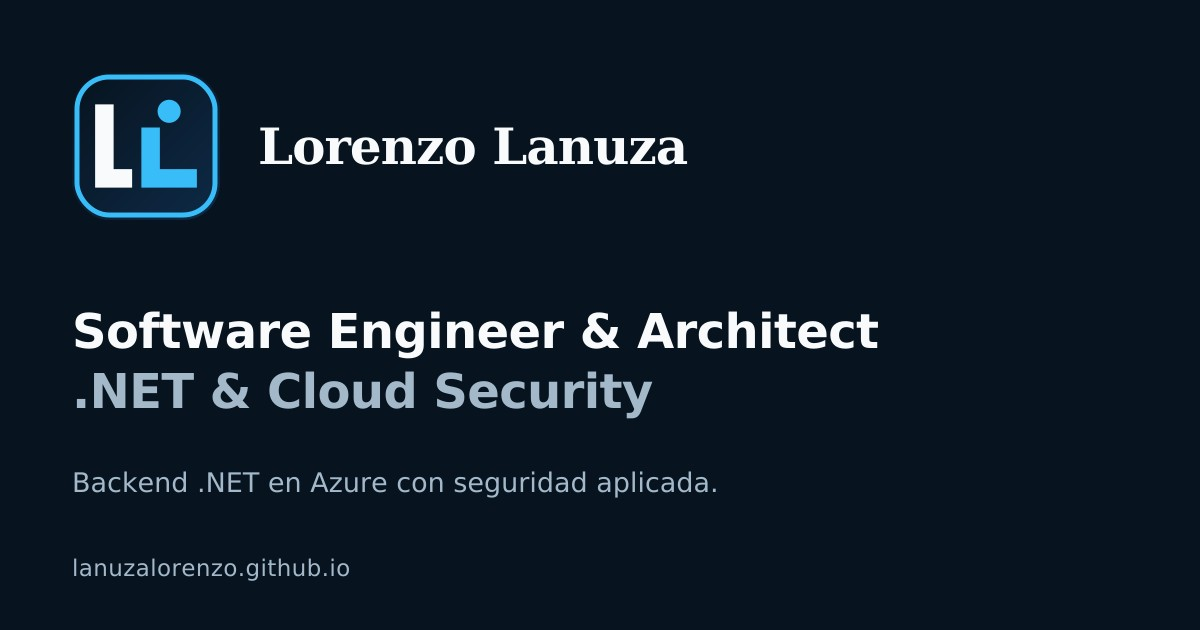
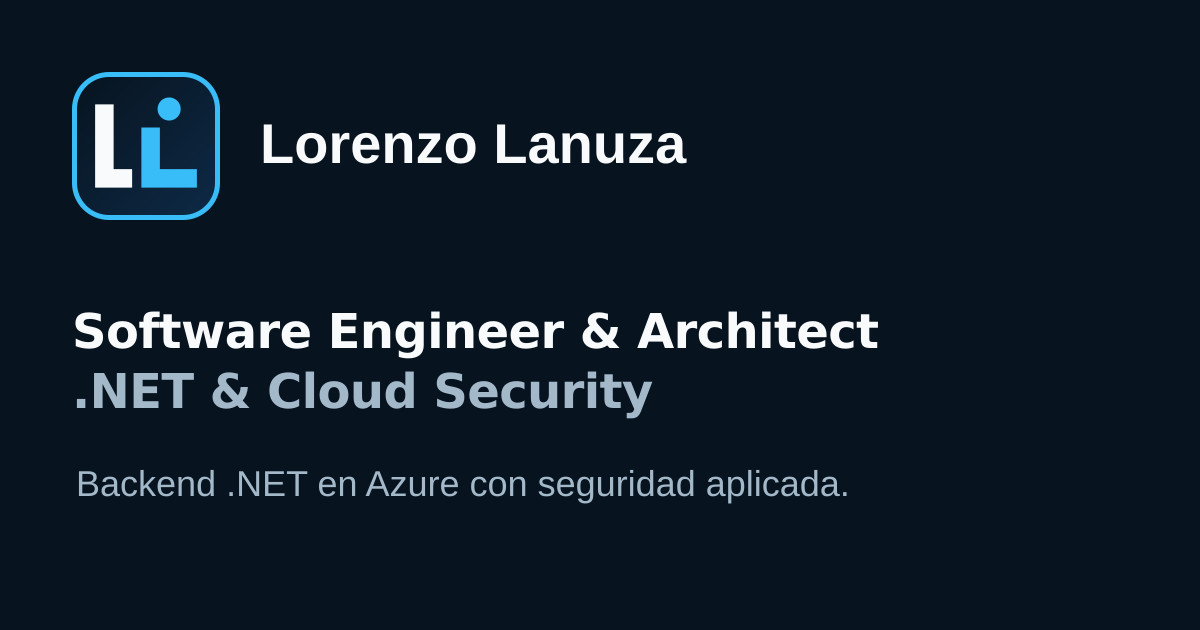
fix(site): align brand mark and social assets (#24)
Move the LL point to cy=16 so it stays separate at 16 px; add a 16 px favicon variant with a 1 px border and an opaque apple-touch-icon; fix the OG tile border, switch the name to sans, enlarge the subtitle and drop the redundant URL; refresh favicon/OG cache tokens, JSON-LD, sitemap and asset docs.

diff --git a/index.html b/index.html
@@ -13,10 +13,10 @@
     <meta property="og:url" content="https://lanuzalorenzo.github.io/">
     <meta property="og:title" content="Lorenzo Lanuza — Software Engineer &amp; Architect · .NET &amp; Azure">
     <meta property="og:description" content="Ingeniero de software senior en .NET y Azure. Aplico la seguridad dentro del desarrollo: identidad, AppSec y pipeline con gates.">
-    <meta property="og:image" content="https://lanuzalorenzo.github.io/assets/og-image.jpg">
+    <meta property="og:image" content="https://lanuzalorenzo.github.io/assets/og-image.jpg?v=20261105a">
     <meta property="og:image:width" content="1200">
     <meta property="og:image:height" content="630">
-    <meta property="og:image:alt" content="Lorenzo Lanuza — Software Engineer &amp; Architect, .NET y Azure">
+    <meta property="og:image:alt" content="Lorenzo Lanuza — Software Engineer &amp; Architect, .NET y Cloud Security">
     <meta property="og:updated_time" content="2026-11-05T00:00:00+01:00">
     <meta name="author" content="Lorenzo Lanuza Arellano">
     <script type="application/ld+json">
@@ -25,7 +25,7 @@
       "@type": "Person",
       "name": "Lorenzo Lanuza Arellano",
       "url": "https://lanuzalorenzo.github.io/",
-      "image": "https://lanuzalorenzo.github.io/assets/og-image.jpg",
+      "image": "https://lanuzalorenzo.github.io/assets/og-image.jpg?v=20261105a",
       "jobTitle": "Software Engineer & Architect · .NET & Azure",
       "alumniOf": {
         "@type": "EducationalOrganization",
@@ -52,13 +52,14 @@
     <meta name="twitter:url" content="https://lanuzalorenzo.github.io/">
     <meta name="twitter:title" content="Lorenzo Lanuza — Software Engineer &amp; Architect · .NET &amp; Azure">
     <meta name="twitter:description" content="Ingeniero de software senior en .NET y Azure. Aplico la seguridad dentro del desarrollo: identidad, AppSec y pipeline con gates.">
-    <meta name="twitter:image" content="https://lanuzalorenzo.github.io/assets/og-image.jpg">
-    <meta name="twitter:image:alt" content="Lorenzo Lanuza — Software Engineer &amp; Architect, .NET y Azure">
+    <meta name="twitter:image" content="https://lanuzalorenzo.github.io/assets/og-image.jpg?v=20261105a">
+    <meta name="twitter:image:alt" content="Lorenzo Lanuza — Software Engineer &amp; Architect, .NET y Cloud Security">
 
     <title>Lorenzo Lanuza — Software Engineer &amp; Architect · .NET &amp; Azure</title>
-    <link rel="icon" href="favicon.svg?v=20261030c" type="image/svg+xml">
-    <link rel="icon" href="favicon.png?v=20261030c" sizes="180x180" type="image/png">
-    <link rel="apple-touch-icon" href="favicon.png?v=20261030c" sizes="180x180">
+    <link rel="icon" type="image/png" sizes="16x16" href="assets/marca/favicon-16.png?v=20261105a">
+    <link rel="icon" href="favicon.svg?v=20261105a" type="image/svg+xml">
+    <link rel="icon" href="favicon.png?v=20261105a" sizes="180x180" type="image/png">
+    <link rel="apple-touch-icon" href="assets/marca/apple-touch-icon.png?v=20261105a" sizes="180x180">
     <link rel="sitemap" type="application/xml" title="Sitemap" href="/sitemap.xml">
     <link rel="stylesheet" href="styles.css?v=20261105a">
     <script src="app.js?v=20261103e" defer></script>

diff --git a/ia.html b/ia.html
@@ -13,10 +13,10 @@
     <meta property="og:url" content="https://lanuzalorenzo.github.io/ia.html">
     <meta property="og:title" content="IA aplicada — Lorenzo Lanuza">
     <meta property="og:description" content="Guías, experimentos y un montaje validado de IA aplicada: montar el entorno, trabajar con agentes, decidir qué sale de la red y medir lo que se afirma.">
-    <meta property="og:image" content="https://lanuzalorenzo.github.io/assets/og-image.jpg">
+    <meta property="og:image" content="https://lanuzalorenzo.github.io/assets/og-image.jpg?v=20261105a">
     <meta property="og:image:width" content="1200">
     <meta property="og:image:height" content="630">
-    <meta property="og:image:alt" content="Lorenzo Lanuza — Software Engineer &amp; Architect, .NET y Azure">
+    <meta property="og:image:alt" content="Lorenzo Lanuza — Software Engineer &amp; Architect, .NET y Cloud Security">
     <meta property="og:updated_time" content="2026-11-05T00:00:00+01:00">
     <meta name="author" content="Lorenzo Lanuza Arellano">
 
@@ -25,13 +25,14 @@
     <meta name="twitter:url" content="https://lanuzalorenzo.github.io/ia.html">
     <meta name="twitter:title" content="IA aplicada — Lorenzo Lanuza">
     <meta name="twitter:description" content="Guías, experimentos y un montaje validado de IA aplicada: montar el entorno, trabajar con agentes, decidir qué sale de la red y medir lo que se afirma.">
-    <meta name="twitter:image" content="https://lanuzalorenzo.github.io/assets/og-image.jpg">
-    <meta name="twitter:image:alt" content="Lorenzo Lanuza — Software Engineer &amp; Architect, .NET y Azure">
+    <meta name="twitter:image" content="https://lanuzalorenzo.github.io/assets/og-image.jpg?v=20261105a">
+    <meta name="twitter:image:alt" content="Lorenzo Lanuza — Software Engineer &amp; Architect, .NET y Cloud Security">
 
     <title>IA aplicada — Lorenzo Lanuza</title>
-    <link rel="icon" href="favicon.svg?v=20261030c" type="image/svg+xml">
-    <link rel="icon" href="favicon.png?v=20261030c" sizes="180x180" type="image/png">
-    <link rel="apple-touch-icon" href="favicon.png?v=20261030c" sizes="180x180">
+    <link rel="icon" type="image/png" sizes="16x16" href="assets/marca/favicon-16.png?v=20261105a">
+    <link rel="icon" href="favicon.svg?v=20261105a" type="image/svg+xml">
+    <link rel="icon" href="favicon.png?v=20261105a" sizes="180x180" type="image/png">
+    <link rel="apple-touch-icon" href="assets/marca/apple-touch-icon.png?v=20261105a" sizes="180x180">
     <link rel="sitemap" type="application/xml" title="Sitemap" href="/sitemap.xml">
     <link rel="stylesheet" href="styles.css?v=20261105a">
     <script src="app.js?v=20261103e" defer></script>

diff --git a/portfolio.html b/portfolio.html
@@ -13,10 +13,10 @@
     <meta property="og:url" content="https://lanuzalorenzo.github.io/portfolio.html">
     <meta property="og:title" content="Portfolio de ciberseguridad — Lorenzo Lanuza">
     <meta property="og:description" content="Doce módulos de seguridad agrupados por capa del modelo Defense-in-Depth, con el estado real y la evidencia de cada uno.">
-    <meta property="og:image" content="https://lanuzalorenzo.github.io/assets/og-image.jpg">
+    <meta property="og:image" content="https://lanuzalorenzo.github.io/assets/og-image.jpg?v=20261105a">
     <meta property="og:image:width" content="1200">
     <meta property="og:image:height" content="630">
-    <meta property="og:image:alt" content="Lorenzo Lanuza — Software Engineer &amp; Architect, .NET y Azure">
+    <meta property="og:image:alt" content="Lorenzo Lanuza — Software Engineer &amp; Architect, .NET y Cloud Security">
     <meta property="og:updated_time" content="2026-11-05T00:00:00+01:00">
     <meta name="author" content="Lorenzo Lanuza Arellano">
 
@@ -25,13 +25,14 @@
     <meta name="twitter:url" content="https://lanuzalorenzo.github.io/portfolio.html">
     <meta name="twitter:title" content="Portfolio de ciberseguridad — Lorenzo Lanuza">
     <meta name="twitter:description" content="Doce módulos de seguridad agrupados por capa del modelo Defense-in-Depth, con el estado real y la evidencia de cada uno.">
-    <meta name="twitter:image" content="https://lanuzalorenzo.github.io/assets/og-image.jpg">
-    <meta name="twitter:image:alt" content="Lorenzo Lanuza — Software Engineer &amp; Architect, .NET y Azure">
+    <meta name="twitter:image" content="https://lanuzalorenzo.github.io/assets/og-image.jpg?v=20261105a">
+    <meta name="twitter:image:alt" content="Lorenzo Lanuza — Software Engineer &amp; Architect, .NET y Cloud Security">
 
     <title>Portfolio de ciberseguridad — Lorenzo Lanuza</title>
-    <link rel="icon" href="favicon.svg?v=20261030c" type="image/svg+xml">
-    <link rel="icon" href="favicon.png?v=20261030c" sizes="180x180" type="image/png">
-    <link rel="apple-touch-icon" href="favicon.png?v=20261030c" sizes="180x180">
+    <link rel="icon" type="image/png" sizes="16x16" href="assets/marca/favicon-16.png?v=20261105a">
+    <link rel="icon" href="favicon.svg?v=20261105a" type="image/svg+xml">
+    <link rel="icon" href="favicon.png?v=20261105a" sizes="180x180" type="image/png">
+    <link rel="apple-touch-icon" href="assets/marca/apple-touch-icon.png?v=20261105a" sizes="180x180">
     <link rel="sitemap" type="application/xml" title="Sitemap" href="/sitemap.xml">
     <link rel="stylesheet" href="styles.css?v=20261105a">
     <script src="app.js?v=20261103e" defer></script>

diff --git a/api.html b/api.html
@@ -13,10 +13,10 @@
     <meta property="og:url" content="https://lanuzalorenzo.github.io/api.html">
     <meta property="og:title" content="EcommerceApi — Lorenzo Lanuza">
     <meta property="og:description" content="El estado real de 28 controles y límites de la API .NET 10 que sirve de banco de pruebas al portfolio, con enlace a su evidencia.">
-    <meta property="og:image" content="https://lanuzalorenzo.github.io/assets/og-image.jpg">
+    <meta property="og:image" content="https://lanuzalorenzo.github.io/assets/og-image.jpg?v=20261105a">
     <meta property="og:image:width" content="1200">
     <meta property="og:image:height" content="630">
-    <meta property="og:image:alt" content="Lorenzo Lanuza — Software Engineer &amp; Architect, .NET y Azure">
+    <meta property="og:image:alt" content="Lorenzo Lanuza — Software Engineer &amp; Architect, .NET y Cloud Security">
     <meta property="og:updated_time" content="2026-11-05T00:00:00+01:00">
     <meta name="author" content="Lorenzo Lanuza Arellano">
 
@@ -25,13 +25,14 @@
     <meta name="twitter:url" content="https://lanuzalorenzo.github.io/api.html">
     <meta name="twitter:title" content="EcommerceApi — Lorenzo Lanuza">
     <meta name="twitter:description" content="El estado real de 28 controles y límites de la API .NET 10 que sirve de banco de pruebas al portfolio, con enlace a su evidencia.">
-    <meta name="twitter:image" content="https://lanuzalorenzo.github.io/assets/og-image.jpg">
-    <meta name="twitter:image:alt" content="Lorenzo Lanuza — Software Engineer &amp; Architect, .NET y Azure">
+    <meta name="twitter:image" content="https://lanuzalorenzo.github.io/assets/og-image.jpg?v=20261105a">
+    <meta name="twitter:image:alt" content="Lorenzo Lanuza — Software Engineer &amp; Architect, .NET y Cloud Security">
 
     <title>EcommerceApi — Lorenzo Lanuza</title>
-    <link rel="icon" href="favicon.svg?v=20261030c" type="image/svg+xml">
-    <link rel="icon" href="favicon.png?v=20261030c" sizes="180x180" type="image/png">
-    <link rel="apple-touch-icon" href="favicon.png?v=20261030c" sizes="180x180">
+    <link rel="icon" type="image/png" sizes="16x16" href="assets/marca/favicon-16.png?v=20261105a">
+    <link rel="icon" href="favicon.svg?v=20261105a" type="image/svg+xml">
+    <link rel="icon" href="favicon.png?v=20261105a" sizes="180x180" type="image/png">
+    <link rel="apple-touch-icon" href="assets/marca/apple-touch-icon.png?v=20261105a" sizes="180x180">
     <link rel="sitemap" type="application/xml" title="Sitemap" href="/sitemap.xml">
     <link rel="stylesheet" href="styles.css?v=20261105a">
     <script src="app.js?v=20261103e" defer></script>

diff --git a/src/partials/shell.html b/src/partials/shell.html
@@ -13,10 +13,10 @@
     <meta property="og:url" content="{{canonical}}">
     <meta property="og:title" content="{{og_title}}">
     <meta property="og:description" content="{{og_description}}">
-    <meta property="og:image" content="https://lanuzalorenzo.github.io/assets/og-image.jpg">
+    <meta property="og:image" content="https://lanuzalorenzo.github.io/assets/og-image.jpg?v=20261105a">
     <meta property="og:image:width" content="1200">
     <meta property="og:image:height" content="630">
-    <meta property="og:image:alt" content="Lorenzo Lanuza — Software Engineer &amp; Architect, .NET y Azure">
+    <meta property="og:image:alt" content="Lorenzo Lanuza — Software Engineer &amp; Architect, .NET y Cloud Security">
     <meta property="og:updated_time" content="2026-11-05T00:00:00+01:00">
     <meta name="author" content="Lorenzo Lanuza Arellano">
 {{head_extra}}
@@ -25,13 +25,14 @@
     <meta name="twitter:url" content="{{canonical}}">
     <meta name="twitter:title" content="{{og_title}}">
     <meta name="twitter:description" content="{{og_description}}">
-    <meta name="twitter:image" content="https://lanuzalorenzo.github.io/assets/og-image.jpg">
-    <meta name="twitter:image:alt" content="Lorenzo Lanuza — Software Engineer &amp; Architect, .NET y Azure">
+    <meta name="twitter:image" content="https://lanuzalorenzo.github.io/assets/og-image.jpg?v=20261105a">
+    <meta name="twitter:image:alt" content="Lorenzo Lanuza — Software Engineer &amp; Architect, .NET y Cloud Security">
 
     <title>{{title}}</title>
-    <link rel="icon" href="favicon.svg?v=20261030c" type="image/svg+xml">
-    <link rel="icon" href="favicon.png?v=20261030c" sizes="180x180" type="image/png">
-    <link rel="apple-touch-icon" href="favicon.png?v=20261030c" sizes="180x180">
+    <link rel="icon" type="image/png" sizes="16x16" href="assets/marca/favicon-16.png?v=20261105a">
+    <link rel="icon" href="favicon.svg?v=20261105a" type="image/svg+xml">
+    <link rel="icon" href="favicon.png?v=20261105a" sizes="180x180" type="image/png">
+    <link rel="apple-touch-icon" href="assets/marca/apple-touch-icon.png?v=20261105a" sizes="180x180">
     <link rel="sitemap" type="application/xml" title="Sitemap" href="/sitemap.xml">
     <link rel="stylesheet" href="styles.css?v=20261105a">
     <script src="app.js?v=20261103e" defer></script>

diff --git a/scripts/build.py b/scripts/build.py
@@ -24,7 +24,7 @@ JSON_LD = """    <script type="application/ld+json">
       "@type": "Person",
       "name": "Lorenzo Lanuza Arellano",
       "url": "https://lanuzalorenzo.github.io/",
-      "image": "https://lanuzalorenzo.github.io/assets/og-image.jpg",
+      "image": "https://lanuzalorenzo.github.io/assets/og-image.jpg?v=20261105a",
       "jobTitle": "Software Engineer & Architect · .NET & Azure",
       "alumniOf": {
         "@type": "EducationalOrganization",

diff --git a/assets/marca/README.md b/assets/marca/README.md
@@ -4,10 +4,10 @@ Monograma del sitio: dos eles escalonadas, la primera blanca y la segunda cian, 
 
 ## Geometría
 
-- Lienzo `viewBox="0 0 64 64"`, marca entre `(10,14)` y `(54,50)`.
+- Lienzo `viewBox="0 0 64 64"`; las dos L van entre `(10,14)` y `(54,50)` y el punto llega hasta `y=11`.
 - Primera L: `M10 14H18V42H26V50H10Z` en `#f8fafc`.
 - Segunda L: `M30 24H38V42H54V50H30Z` en `#38bdf8`.
-- Punto: círculo de radio 5 en `(42,17)`, `#38bdf8`, separado de la segunda L por 2 px de hueco.
+- Punto: círculo de radio 5 en `(42,16)`, `#38bdf8`, separado de la segunda L por 3 px de hueco vertical (0,75 px a 16, que se rasteriza como 1 px).
 
 ## Ficheros
 
@@ -16,14 +16,16 @@ Monograma del sitio: dos eles escalonadas, la primera blanca y la segunda cian, 
 | `marca-tile.svg` | Baldosa 64×64 con fondo degradado y borde cian sólido de 2 px (`#38bdf8`, sin degradado ni opacidad). Es la versión del favicon y del icono de cabecera y pie | 16, 32, 64, 180 y 512 |
 | `marca.svg` | Marca sola sobre fondo transparente, para superficies navy ya existentes | 16, 32, 64, 180 y 512 |
 | `marca-mono.svg` | Una tinta `#f8fafc`, punto incluido | 16, 32, 64, 180 y 512 |
+| `apple-touch-icon.png` | Icono de iOS, 180×180 opaco: tile de 162 px centrado sobre navy, sin transparencia | 180 |
+| `favicon-16.svg` / `favicon-16.png` | Variante de 16 px para la pestaña: borde cian de 1 px sólido y hueco de 1 px; a 32+ se usa el tile normal | 16 |
 
 `marca.svg` y `marca-mono.svg` son de tinta clara: sobre fondo claro no se ven, y ahí se usa la baldosa. Los PNG se generan desde el SVG; el SVG es la fuente.
 
-`favicon.svg` en la raíz del sitio es la misma pieza que `marca-tile.svg`, y `favicon.png` es su PNG a 180.
+`favicon.svg` en la raíz del sitio es la misma pieza que `marca-tile.svg`, y `favicon.png` es su PNG a 180. Para 16 px se sirve `favicon-16.png`, que mantiene el borde de 1 px y el hueco de 1 px; `favicon.svg` sigue siendo la misma pieza que `marca-tile.svg` para 32+. `apple-touch-icon.png` es la variante opaca para iOS: el tile baja a 162 px sobre un fondo navy para que la máscara de iOS no recorte el borde.
 
 ## El punto
 
-Es lo único que no cambia entre versiones. Va siempre en el mismo sitio, en hueco abierto y separado de la segunda L: apoyado sobre el pie de la L se funde con ella y a 16 px desaparece, que es justo el fallo que tenía el favicon anterior. En la versión monocroma pierde el cian, no la posición.
+Es lo único que no cambia entre versiones. Va siempre en el mismo sitio, en hueco abierto y separado de la segunda L: a 16 px se mantiene separado por 1 px. El fallo del favicon anterior era que el punto se fundía con la L y desaparecía; esa es la condición que no se puede repetir. En la versión monocroma pierde el cian, no la posición.
 
 ## Lo que no se hace
 

diff --git a/assets/iconos/README.md b/assets/iconos/README.md
@@ -7,8 +7,6 @@ Un único SVG, `web.svg`, usado en la cabecera del README y como icono de la car
 - Escala: la marca se dibuja en una caja de 40 px centrada, para que respire igual que los glifos de 44 px del resto de la familia.
 - Regla de familia: sin etiqueta, sin número y sin color por repositorio ni por módulo; la marca es la misma para toda la familia.
 
-El acceso del escritorio a la web publicada usa la misma marca con un distintivo de globo cian, así que «repo de la web» y «web publicada» se reconocen como pareja sin compartir nombre de archivo: `web.svg` y `web-enlace.svg`. En el acceso, la marca baja a 30 px para no chocar con el globo.
-
 ## Origen y licencia
 
 La marca LL es propia: está compuesta con trazos rectangulares y un círculo, y no procede de ninguna biblioteca de iconos. La fuente y las tres versiones están en [`assets/marca/`](../marca/).
